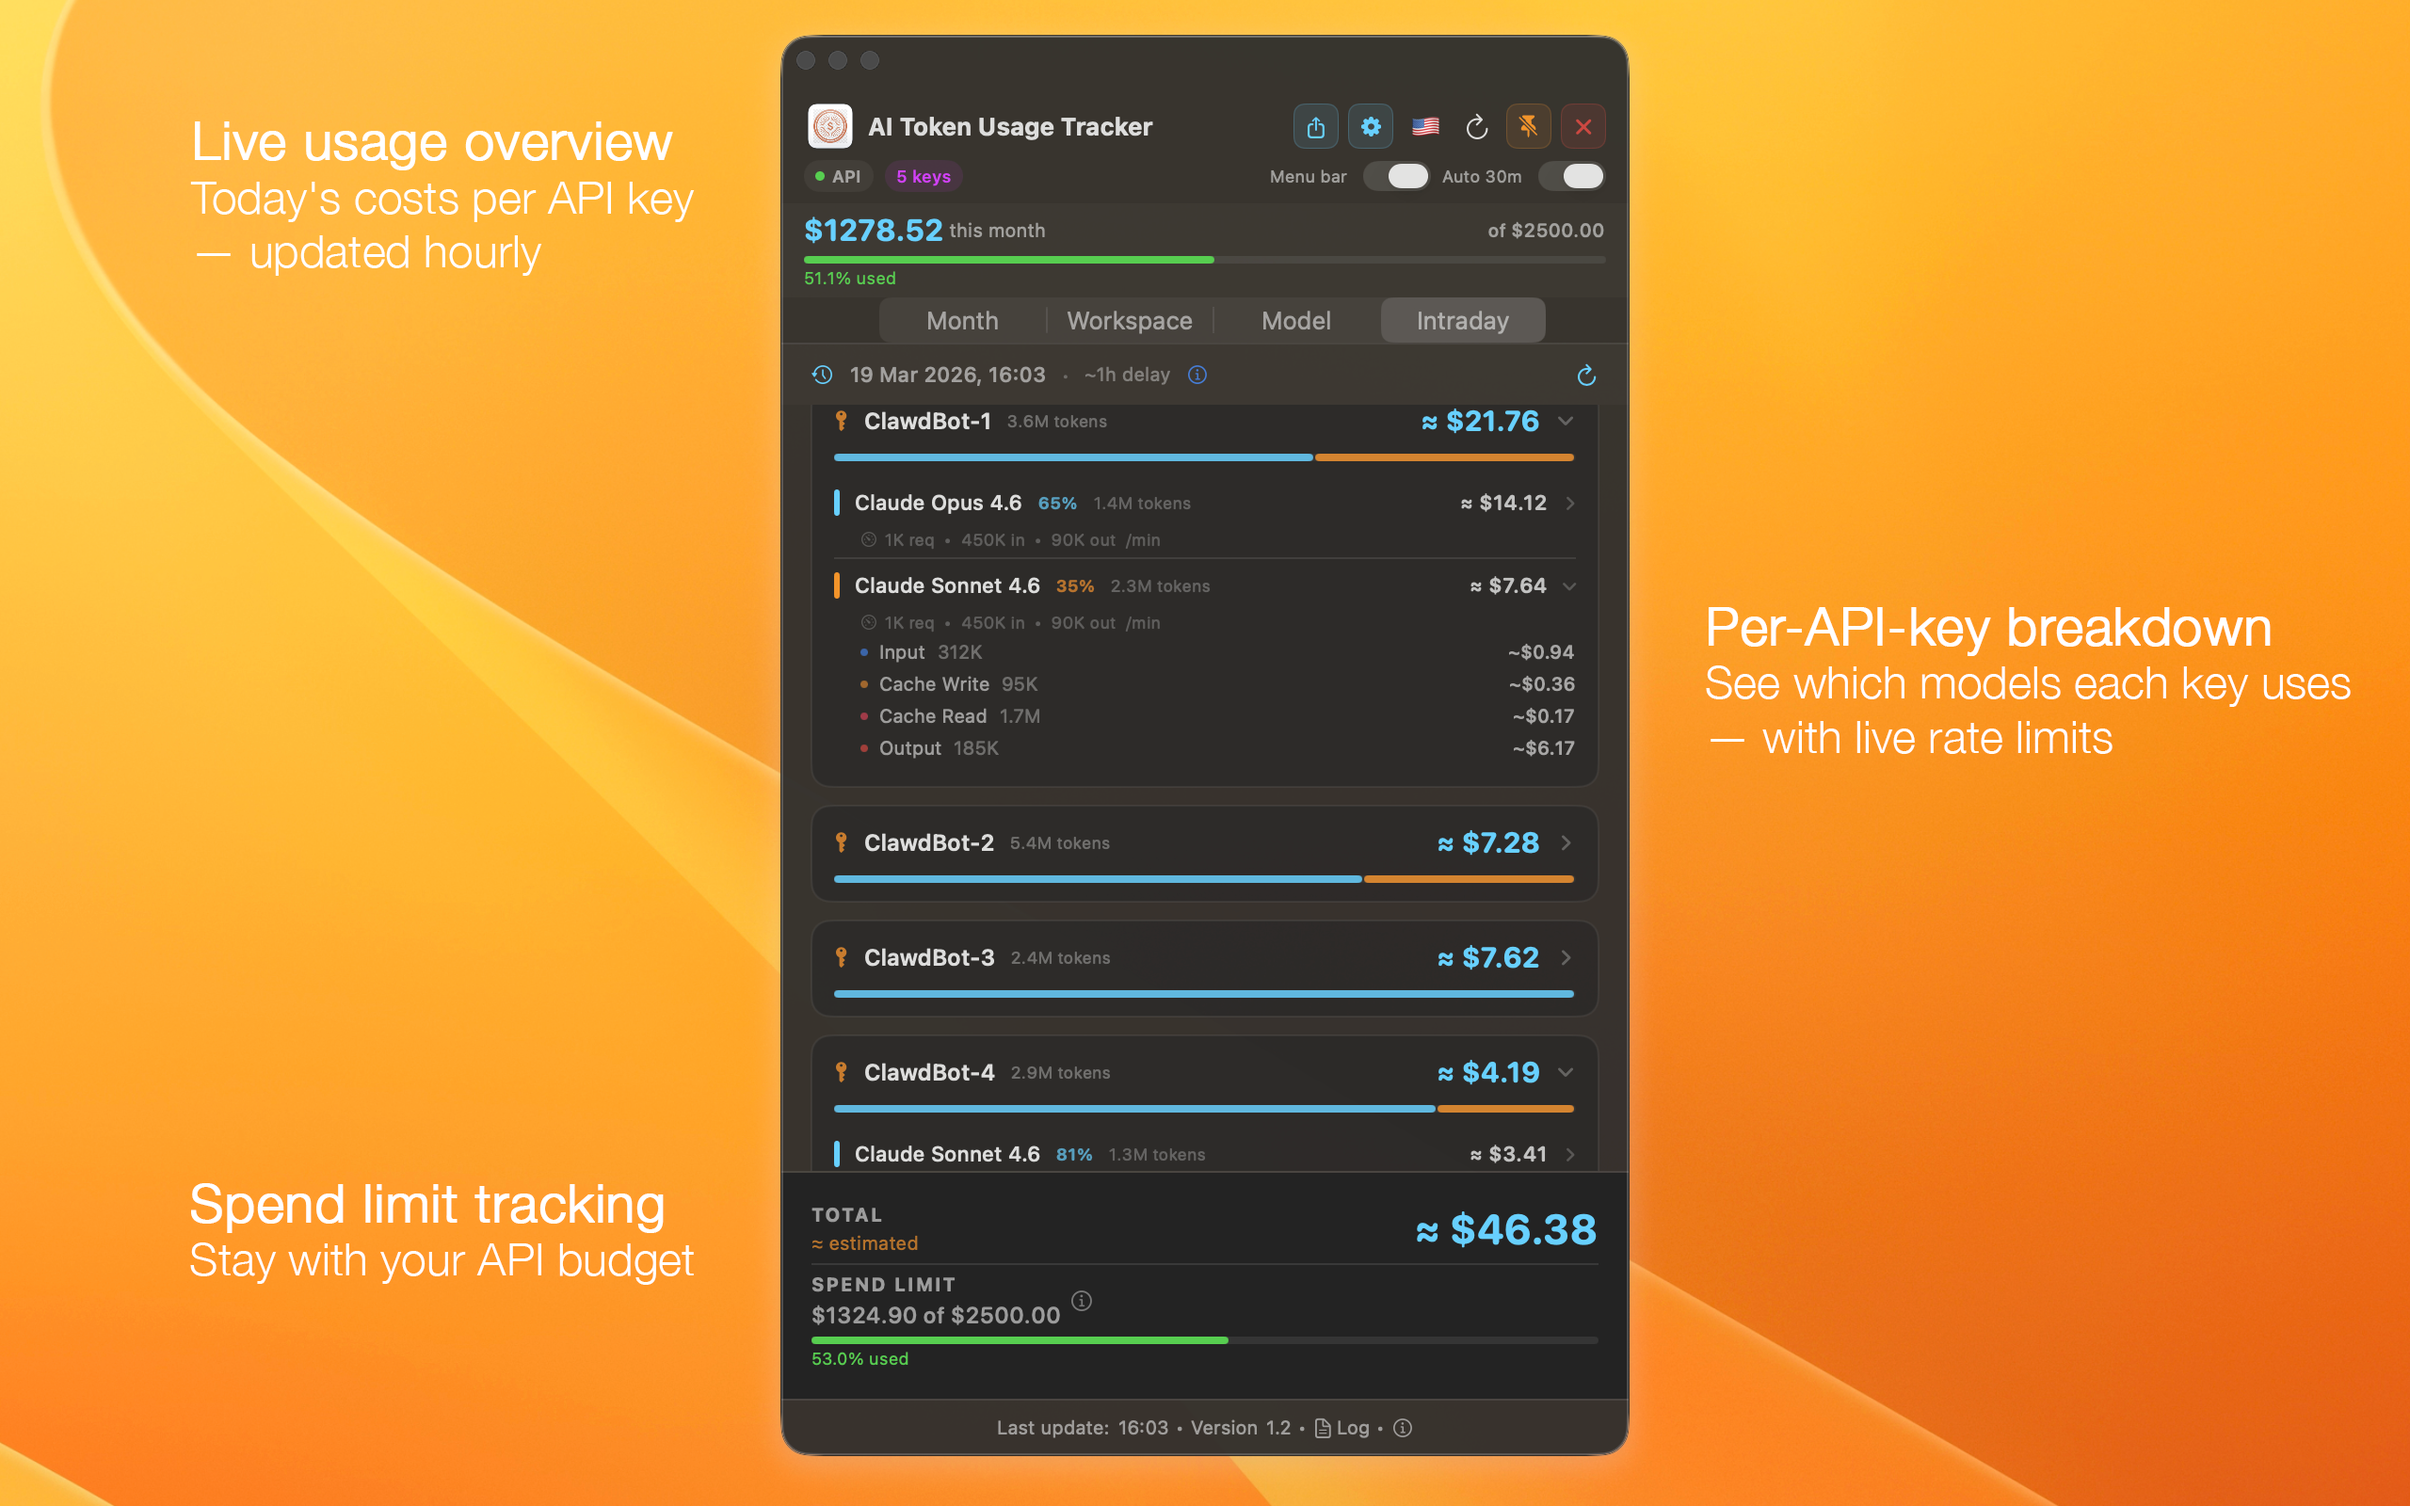
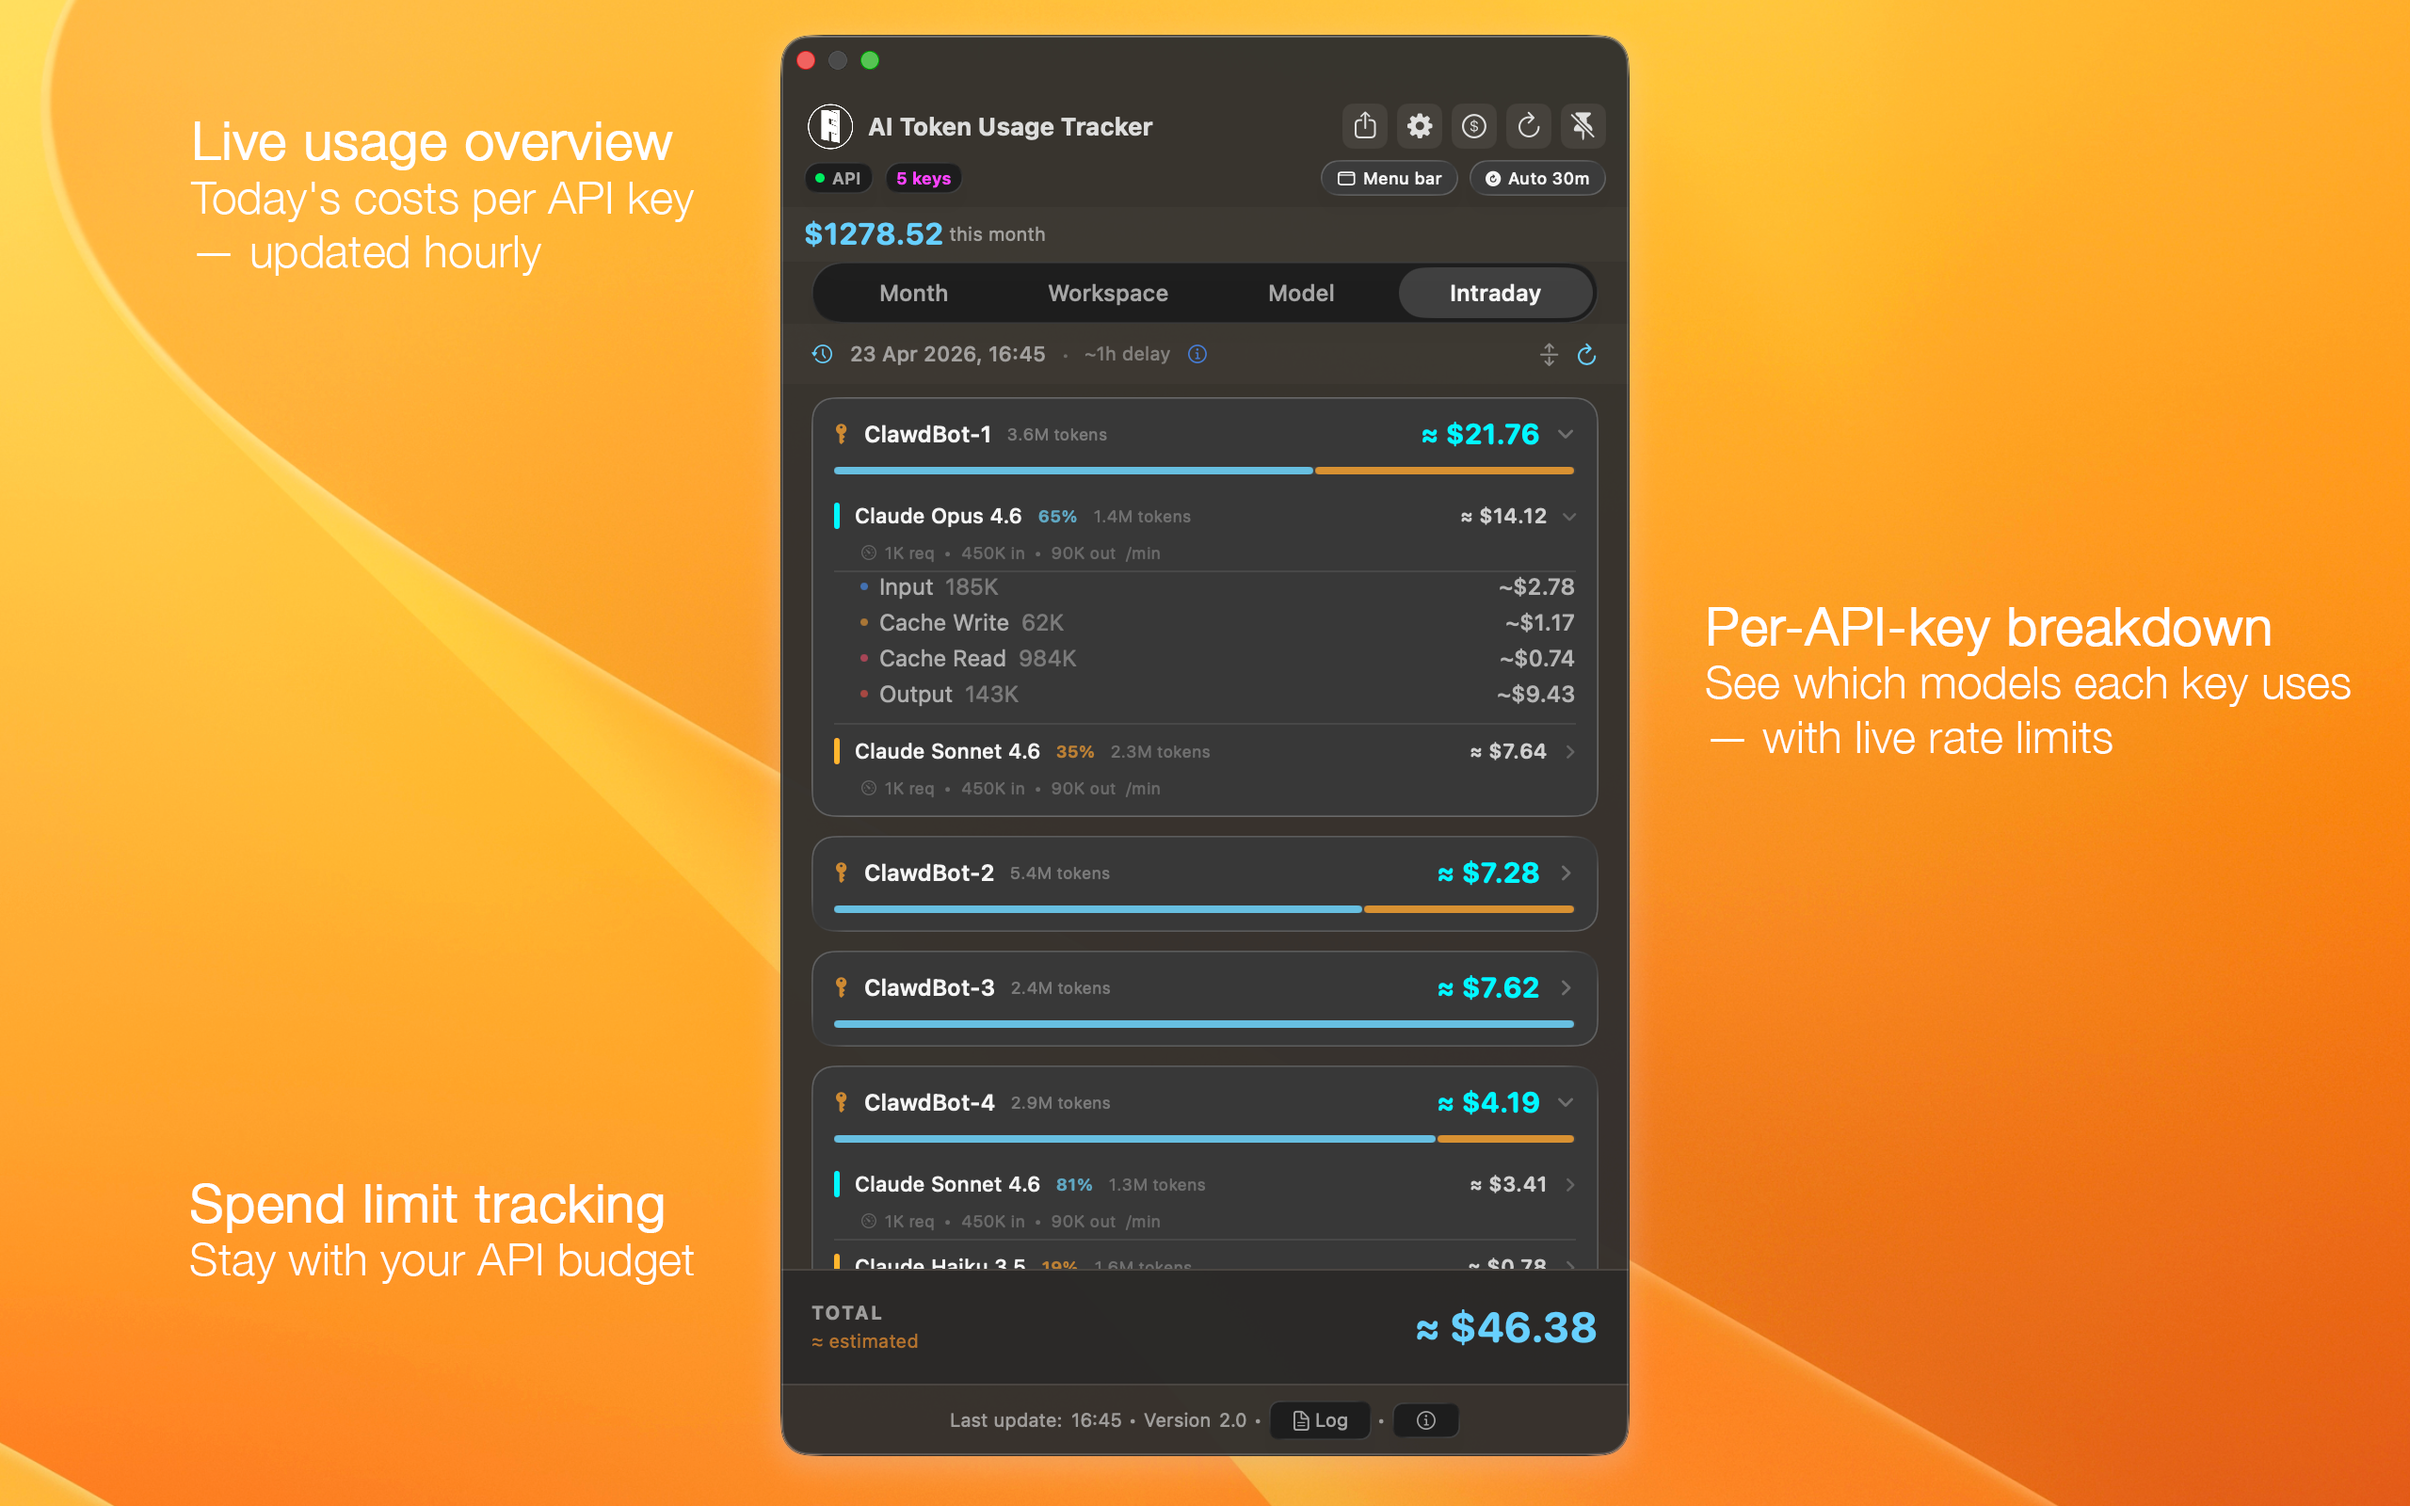
Release of Version 2.0 with visionOS support

diff --git a/index.html b/index.html
@@ -50,7 +50,7 @@
         "@type": "SoftwareApplication",
         "name": "AI Token Usage Tracker",
         "alternateName": ["Claude Token Usage Tracker", "AI Token Tracker for Vision Pro", "Claude API Cost Tracker"],
-        "operatingSystem": ["macOS 14.0", "macOS Sonoma", "macOS Sequoia", "macOS Tahoe", "visionOS 2.0", "visionOS"],
+        "operatingSystem": ["macOS 26", "macOS Tahoe", "macOS Tahoe", "visionOS 2.0", "visionOS"],
         "applicationCategory": ["DeveloperApplication", "ProductivityApplication", "UtilitiesApplication"],
         "applicationSubCategory": "API Monitoring",
         "description": "A native macOS menu bar and Apple Vision Pro (visionOS) app to monitor Anthropic Claude API token usage and costs in near real-time. Provides breakdowns by model, workspace, month, and API key, with a spatial interface on Vision Pro. Built with Swift and SwiftUI — zero third-party dependencies.",
@@ -84,7 +84,7 @@
             "https://raw.githubusercontent.com/siegfriedbolz/claude-token-usage-tracker/main/screenshots/visionpro/Settings1.png",
             "https://raw.githubusercontent.com/siegfriedbolz/claude-token-usage-tracker/main/screenshots/visionpro/Settings2.png"
         ],
-        "softwareRequirements": "macOS 14.0 (Sonoma) or later, or Apple Vision Pro running visionOS 2.0 or later; Anthropic Admin API key required",
+        "softwareRequirements": "macOS 26 (Tahoe) or later, or Apple Vision Pro running visionOS 2.0 or later; Anthropic Admin API key required",
         "featureList": [
             "Native macOS menu bar app",
             "Native Apple Vision Pro (visionOS) spatial app",
@@ -136,7 +136,7 @@
                 "name": "What are the system requirements?",
                 "acceptedAnswer": {
                     "@type": "Answer",
-                    "text": "You need macOS 14.0 (Sonoma) or later, or Apple Vision Pro running visionOS 2.0 or later, plus an Anthropic Admin API key which requires organization admin access in your Anthropic Console."
+                    "text": "You need macOS 26 (Tahoe) or later, or Apple Vision Pro running visionOS 2.0 or later, plus an Anthropic Admin API key which requires organization admin access in your Anthropic Console."
                 }
             },
             {
@@ -176,7 +176,7 @@
                 "name": "Does AI Token Usage Tracker run on Apple Vision Pro?",
                 "acceptedAnswer": {
                     "@type": "Answer",
-                    "text": "Yes. AI Token Usage Tracker is a universal app that runs natively on Apple Vision Pro (visionOS 2.0 or later) as a spatial windowed app, and on macOS (14.0 Sonoma or later) as a menu bar app. Both versions share the same data model and connect directly to the Anthropic Admin API. The Vision Pro version uses a volumetric glass UI with eye-tracking hover feedback, and includes a Spatial Currency Picker designed for visionOS."
+                    "text": "Yes. AI Token Usage Tracker is a universal app that runs natively on Apple Vision Pro (visionOS 2.0 or later) as a spatial windowed app, and on macOS (26 Tahoe or later) as a menu bar app. Both versions share the same data model and connect directly to the Anthropic Admin API. The Vision Pro version uses a volumetric glass UI with eye-tracking hover feedback, and includes a Spatial Currency Picker designed for visionOS."
                 }
             },
             {
@@ -1481,11 +1481,12 @@
     <a class="skip-link" href="#platform-panel">Skip to main content</a>
 
     <!-- Announcement Banner -->
+
     <div class="announcement-banner" id="announcement-banner" aria-label="Version 2.0 announcement">
         <div class="announcement-content">
             <span class="announcement-icon"></span>
             <span class="announcement-text">
-                <strong>Coming Soon: Version 2.0</strong> — 🥽 Apple Vision Pro support, free for all users!
+                <strong>Now available: Version 2.0</strong> on the App Store — 🥽 Apple Vision Pro support added!
             </span>
         </div>
     </div>
@@ -1762,7 +1763,7 @@
             <!-- Requirements (rendered per platform) -->
             <section aria-label="Requirements">
                 <h2>Requirements</h2>
-                <p id="requirements-text"><strong>macOS 14.0 (Sonoma)</strong> or later. Requires an <strong>Anthropic Admin API key</strong>, which you can generate in the Anthropic Console under Organization Settings (requires organization admin access).</p>
+                <p id="requirements-text"><strong>macOS 26 (Tahoe)</strong> or later. Requires an <strong>Anthropic Admin API key</strong>, which you can generate in the Anthropic Console under Organization Settings (requires organization admin access).</p>
             </section>
 
             <!-- CTA (rendered per platform) -->
@@ -1830,9 +1831,9 @@
                 href: 'https://apps.apple.com/app/ai-token-usage-tracker/id6760191068',
                 img: 'Download_macOS_Store.svg',
                 alt: 'Download on the Mac App Store',
-                hint: 'Requires macOS 14.0 (Sonoma) · Free 7-day trial'
+                hint: 'Requires macOS 26 (Tahoe) · Free 7-day trial'
             },
-            requirements: '<strong>macOS 14.0 (Sonoma)</strong> or later. Requires an <strong>Anthropic Admin API key</strong>, which you can generate in the Anthropic Console under Organization Settings (requires organization admin access).',
+            requirements: '<strong>macOS 26 (Tahoe)</strong> or later. Requires an <strong>Anthropic Admin API key</strong>, which you can generate in the Anthropic Console under Organization Settings (requires organization admin access).',
             screenshots: [
                 { src: 'screenshots/Model.png', full: 'screenshots/Model.png', alt: 'AI Token Usage Tracker — Per-model cost breakdown showing Claude Opus and Sonnet with 4 cost categories and inline rate limits', title: 'By Model', caption: "Every Claude model you've used, sorted by version and tier. Each card shows total cost, a color-coded 4-category breakdown (Input, Cache Write, Cache Read, Output), and inline rate-limit pills when configured." },
                 { src: 'screenshots/Monat.png', full: 'screenshots/Monat.png', alt: 'AI Token Usage Tracker — Monthly cost breakdown with paginated month cards, color-coded distribution bars, and token categories', title: 'By Month', caption: "Paginated month cards with finalized costs from Anthropic's Cost API. Each card shows total spend, a proportional cost bar, and per-category stats. Pro users can expand each month for a per-API-key breakdown." },
@@ -1854,17 +1855,12 @@
                 caption: "Today's API costs per key as a spatial window — tuned with Apple's Liquid Glass materials and hover-reactive controls."
             },
             cta: {
-                comingSoon: true,
-                notice: 'The Vision Pro app is <strong>coming soon</strong>. In the meantime, the macOS version is available now and works great alongside your Vision Pro setup.',
-                fallback: {
-                    href: 'https://apps.apple.com/app/ai-token-usage-tracker/id6760191068',
-                    img: 'Download_macOS_Store.svg',
-                    alt: 'Download on the Mac App Store',
-                    label: 'Get the macOS version'
-                },
-                hint: 'visionOS 2.0 · Coming soon'
+                href: 'https://apps.apple.com/app/ai-token-usage-tracker/id6760191068',
+                img: 'Download_macOS_Store.svg',
+                alt: 'Download on the Mac App Store',
+                hint: 'Requires visionOS 2.0 or later'
             },
-            requirements: 'The Vision Pro app is <strong>coming soon</strong> and will require <strong>visionOS 2.0</strong> or later on Apple Vision Pro. It will use an <strong>Anthropic Admin API key</strong>, which you can generate in the Anthropic Console under Organization Settings (requires organization admin access).',
+            requirements: '<strong>visionOS 2.0</strong> or later on Apple Vision Pro. Requires an <strong>Anthropic Admin API key</strong>, which you can generate in the Anthropic Console under Organization Settings (requires organization admin access).',
             screenshots: [
                 { src: 'screenshots/visionpro/Monat_small.png', full: 'screenshots/visionpro/Monat.png', alt: 'AI Token Usage Tracker on Vision Pro — Monthly cost breakdown in a spatial window with Liquid Glass materials', title: 'By Month', caption: "Paginated month cards with finalized costs from Anthropic's Cost API, rendered on Liquid Glass surfaces. Pro users can expand each month for a per-API-key breakdown." },
                 { src: 'screenshots/visionpro/Currency_small.png', full: 'screenshots/visionpro/Currency.png', alt: 'AI Token Usage Tracker on Vision Pro — Spatial currency picker with flag-based entries for 12 currencies', title: 'Spatial Currency Picker', caption: 'A dedicated visionOS view for switching currencies. Flag-based rows for all 12 supported currencies with live exchange rates, hover-reactive selection, and instant sync across every tab.' },
